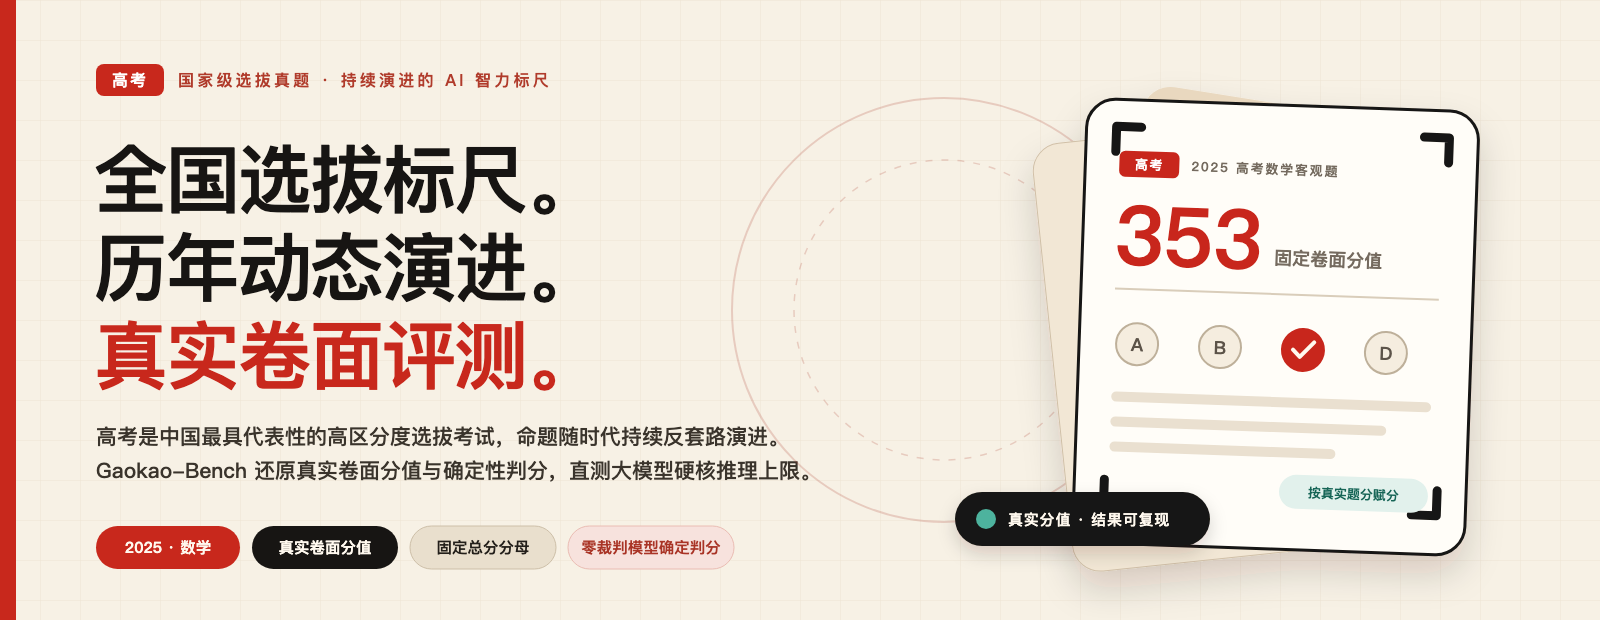
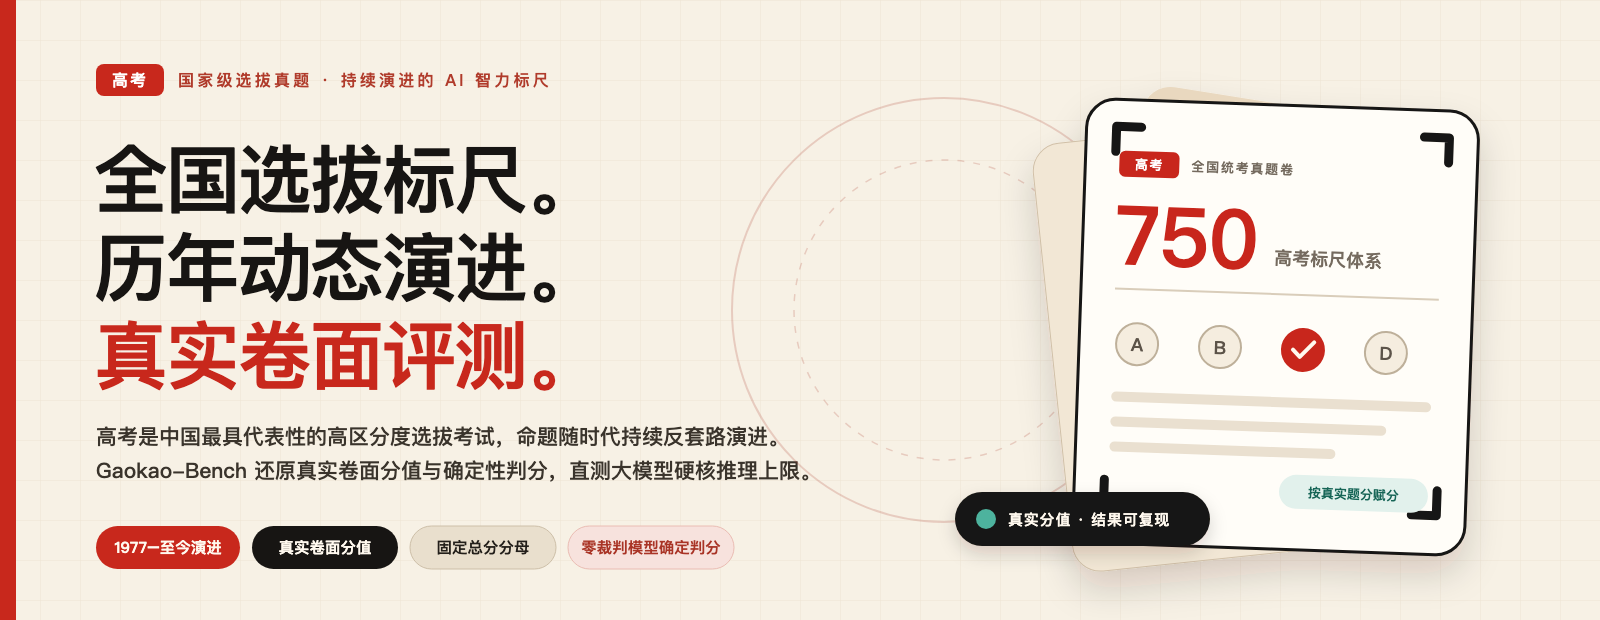
Fix dataset viewer configs and unify hero artwork

Changed region(s): [[0.6875, 0.3371, 0.875, 0.429], [0.75, 0.2452, 0.8438, 0.3065], [0.0625, 0.8581, 0.1562, 0.9194]]

diff --git a/gaokao_bench/public_data.py b/gaokao_bench/public_data.py
@@ -205,6 +205,27 @@ task_categories:
 - question-answering
 size_categories:
 - n<1K
+configs:
+- config_name: questions
+  data_files:
+  - split: test
+    path: questions.jsonl
+- config_name: answers
+  data_files:
+  - split: test
+    path: answer_keys.jsonl
+- config_name: papers
+  data_files:
+  - split: test
+    path: papers.jsonl
+- config_name: assets
+  data_files:
+  - split: test
+    path: assets.jsonl
+- config_name: subjective_catalog
+  data_files:
+  - split: test
+    path: catalog/subjective_catalog.jsonl
 ---
 
 # Gaokao-Bench {version}
@@ -285,6 +306,8 @@ gaokao-bench validate --data-dir data/{version}
 | `papers.jsonl` | `id`、`title`、`year`、`region`、`objective_points`、`pdf_url` | 5 套试卷元数据与来源 |
 | `assets.jsonl` | `question_id`、`path`、`bytes`、`sha256`、`dependency` | 4 道图形必需题的裁图索引 |
 | `catalog/subjective_catalog.jsonl` | `id`、`type`、`content`、`points`、`included_in_scoring` | 主观题目录，仅作后续扩展记录 |
+
+Dataset Viewer 将每个 JSONL 注册为独立 config：`questions`、`answers`、`papers`、`assets`、`subjective_catalog`。不同字段结构的文件不会混成一张表。
 
 ## 评分规则
 

diff --git a/tests/test_public_contract.py b/tests/test_public_contract.py
@@ -45,6 +45,7 @@ def test_public_readmes_and_theme_assets_are_complete():
     }
     asset_dir = ROOT / ".github" / "readme"
     assert {path.name for path in asset_dir.glob("*.svg")} == expected_assets
+    assert (asset_dir / "hero-hf-zh.svg").read_bytes() == (asset_dir / "hero-zh-light.svg").read_bytes()
 
     for document in (readme, readme_zh):
         text = document.read_text(encoding="utf-8")
@@ -92,3 +93,5 @@ def test_huggingface_dataset_card_metadata_is_hub_compatible():
     assert license_name is not None
     assert re.fullmatch(r"[a-z0-9.-]+", license_name.group(1))
     assert "brand/hero-hf-zh.png" in card
+    for config in ("questions", "answers", "papers", "assets", "subjective_catalog"):
+        assert "config_name: %s" % config in card
